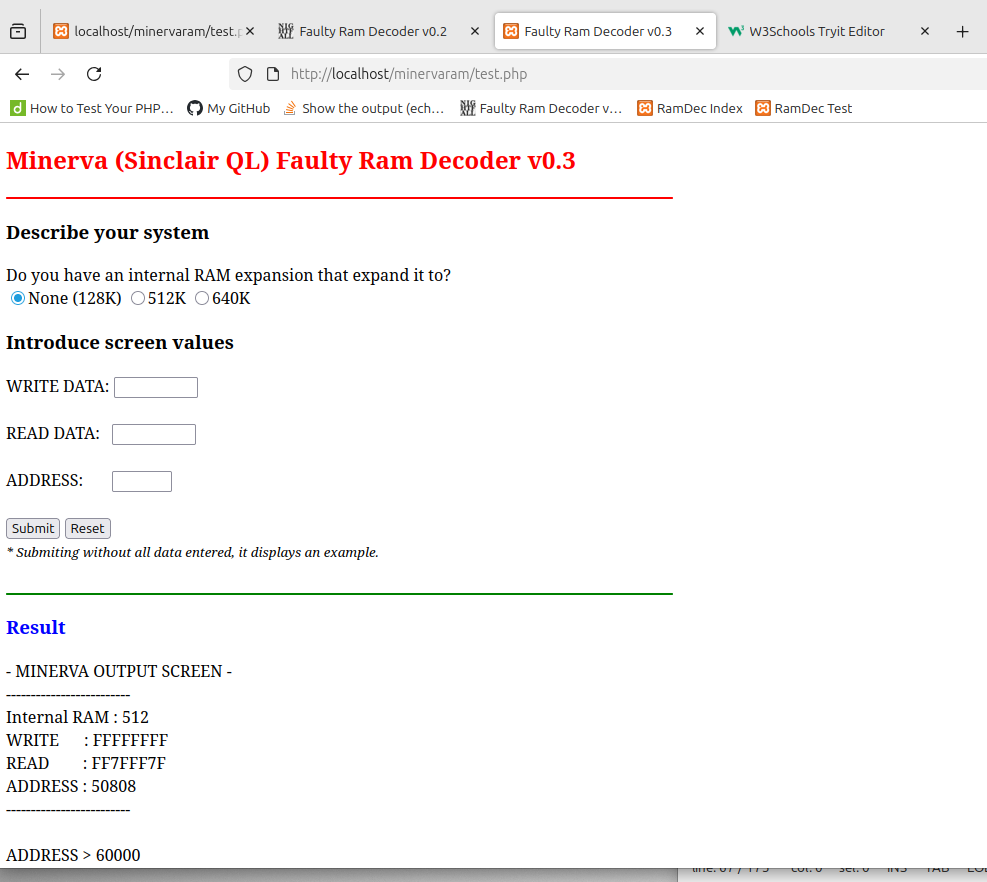
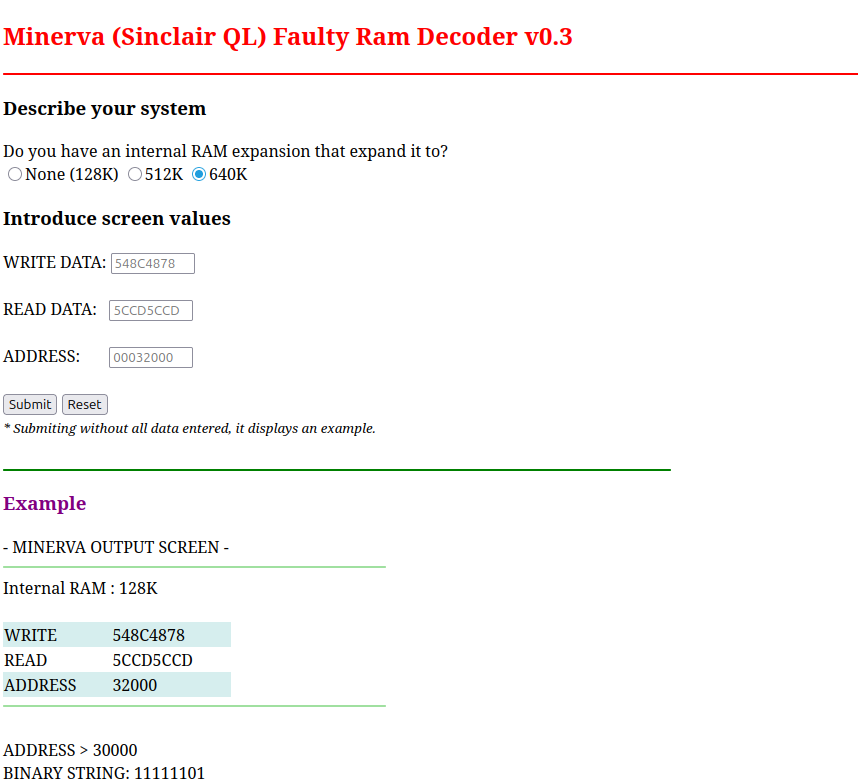
Documenting: finishing the readme and extra info

Changed region(s): [[0.0, 0.0, 1.0, 0.5839], [0.0, 0.5839, 0.3939, 0.9219], [0.0, 0.9526, 1.0, 1.0]]

diff --git a/README.md b/README.md
@@ -1,26 +1,104 @@
-# Minerva_RAM_Test
-Revision of the RAM Test Utility for QL to detect faulty RAM ICs.
+# Minerva RAM Test
+Revision of the RAM Test Utility for Sinclair QL computer to detect faulty RAM ICs. Minerva RAM test is the name for this repository, but actually it has not accurate with the original development.
 
-The HTML&PHP revision 0.2 converted by Xad/Nightfall, relies on the codes that Minerva or the basic program developed by Dominic Brown. It in a smart way check if an IC is faulty (must be a compleately faulty IC) and gives 3 codes to the user (Write, Read and the Address). 
+A better name would be RAM Fail Test, but to follow the most known name, I keep it like it is.
 
-With the 3 codes the user must introduce them into the PHP mentioned tool aviable at http://www.nightfallcrew.com/minervaram . Sadly it was only useful for a part of users that have a QL with stock RAM of 128K.
+## Introduction
 
-So due to the mentioned aboved, here is a remake of the code that allows to other users with some mods that expand the original memory placed on the ICs sockets/places till 512K (Danish mod) or 640K to get the right IC that is faulty.  
+Sinclair QL power design often drove into a common problem of get a RAM IC faulty or burned out, **Dominic Brown** wrote in 1990 a rutine in **SuperBasic** that was able to detect in a very smart way which RAM IC was compleately out. The routine <ins>gives 3 codes to detect the faulty IC</ins>. The main problem was that for running this routine <ins>you would need a working QL with Microdrive or similar working device to run it out, what was not easy at all if you only own one machine</ins>. The use of emulators was not common at that time.
+
+Thanks to the main routine that detect the faulty IC was implemented into the **Minerva ROM**, every user could get the codes and pass them to the Basic program to detect the faulty IC, yet it required another machine full working for decoding the results.
+
+In 2015, 15 years later **Xad/Nightfall** ported the code to a **PHP** file giving a great tool for the comunity. That was a very good step foward cause <ins>broke up with the neccesity of a working QL</ins>. With the Internet in every device and every home, it was not neccesary anymore to rely in a second machine or emulator to get decoded the information that report the faulty IC.
+
+The user must introduce the 3 codes them into the PHP mentioned tool at http://www.nightfallcrew.com/minervaram. Sadly it was only useful for a part of users that have a QL with stock RAM of 128K.
+
+## Later distribuitor modifications
+When Sinclair started to sell the Sinclair QL (and till the end of its production) the amount of memory was 128KiB distribuited in the main PCB placed in 16 sockets of 8 Kbits each.
+
+But some distribuitors use to make some **modification on the main board replacing the original TMS-4164 for MT-1257 of 256Kbits each increasing the total amount of RAM till 512KBytes**. That was the case of the <ins>Danish company H.Christensen&Søn as</ins>. 
+
+![Modified Sinclair QL with the label of the Danish distributor that increased the RAM amount](images/Lable_official_danish_distributor.jpeg)
+
+The modification relies in a extra glue logic added to the computer (*usually between the CPU and the ROM port*) as seen in the next picture:
+
+![Danish mod overview in the Sinclair QL main board](images/Dansk_Udgave.jpg)
+
+Another **similar modification increased the amount of RAM up to 640KBytes using NECD41256C in piggy back on the original RAM** (*not pictures available yet*)
+
+In those cases, the excellent work done by Dominc & Xad/Nightfall was useless due to **the algorithm relies on a maximun of 128KBytes over the ROM zone, it means from 20000Hex to 30000Hex** (*Bellow 20000H is reserved to the ROM memory and some I/O areas*). So the maths were outside of the ranks beliving it was in a external RAM when actually it was placed in the main PCB sockets from IC1 to IC16.
+
+## Motivation
+Due to what mentioned aboved, here is a remake of the code that allows to other users with modifications that expand the original memory placed on the ICs sockets/places till 512K (Danish mod) or 640K to get the right IC that is faulty.  
+
+As soon as the algorithm detect it is over 30000H stop with the process and doesn't give a suspected IC.
+
+>So why not to give a solution to this situation? Let's do it.<br> Would be it so difficult to adapt? Obviously not, I did it (*seems that*).
+
+## Resolution
+Thanks to the code was pretty well smart&design it was easy to adapt. The main idea is that the memory still is distribuited by the sockets in a porportional way. Thus telling to the algorithm the limits of the RAM address, setting the floor and calculating the middle point (*16 ICs distribuited by 2 rows of 8 for upper and lower zone of the whole RAM amount*) now it should determinate and indicate the right IC, keeping the compatibility with the previous version but also with those Sinclair QLs with such modifications.
+
+To make it easier now the PHP page shows new fields that allows the user to select among 3 different types of Sinclair QL amount of RAM. The default one is 128K (*the most common*).
+
+Also was interesting to add some changes on the information of the page, that could helps to the users (*moreover non technical skilled users*) to understand what is happening, where and how to introduce the codes.
+
+Dividing the page in 3 sections also gives the chance for some extra improvements.
+
+### Section 1 Inputs
+This area is dedicated to select the Sinclair QL model with the amount of RAM available on the main PCB, the three codes from the detection routine (*Write, Read and Address*) and finally to submit the datas in order to process them.
+
+Also keep the reset buttom that clean the form.
+
+[!IMPORTANT]In case of no datas introduced, when submited it shows an example of the ouput that would obtein in a real example. The send datas to the program are shown in light grey colour inside each text field.
 
 
-I has been tested with some original warning Minerva codes from 128K QLs and also with QL with Danish mod of 512K.
+### Section 2 Process
+Like now the results is headed by a label that indicate if it's an example to show how it works or a result of the real calc of the 3 valid codes. You can tell it by the proper word but also by the colour of the text.
+
+The interface shows which processed datas were introduced into a table, with coloured strips to give some extra confort to check out that codes corresponds with the expected.
+
+It is interesting when you want to check out that you introduced the codes without mistakes for checking purpose, saving time to introduce them twice, three times... just in case.
+
+### Section 3 Output
+The format of the ouput remain the same than the previous version. If it is simple and works, don't touch it. 
+
+
+> [!CAUTION] The result may not correspond with a real faulty IC, it helps but it is not determinated since in the real hardware also are implied more ICs like the multiplexers, or pasive components. So it gives a starting point that in 90% of cases is the guilty component.
+
+## Results
+**In few words Full Success.**
+
+I has been tested with some original warning Minerva codes taken from faulties 128K QLs and also with a faulty QL with Danish mod of 512K.
 
 Not tested yet with mods of 640K (usually this mod has an extra IC in piggybag over original RAM ICs), but should work the same
 
-Next part of the work will face the basic program in order to give to it more functionalities, but by now it is more than enough.
 
-This document in still under development same as the code getting more features.
+> [!CAUTION] Not fully tested yet with 640K mod, so use it under your own risk.
 
-Not full tested yet, so use it under your own risk.
 
-![My image](images/GUI_1.png) 
-![My image](images/GUI_2.png) 
+![Upper part of the GUI with the 2 first section](images/GUI_1.png) 
+![Bottom part of the GUI with the example and credits](images/GUI_2.png) 
 
-Credits:
+## What's next?
+Here are some ideas that maybe I would attend.
+
+- [x] Adapt the code for modified Sinclair QLs with 512KB RAM
+- [X] Adapt the code for modified Sinclair QLs with 640KB RAM
+- [X] Improve the user interface for better understanding
+- [X] Add to the uer interface the controls to select the right QL
+- [ ] Create a Java APP to run to decode the codes without Internet
+- [ ] Create a C program for Sinclair QL instead a Basic one
+- [ ] Create an external ROM with the C code to test a QL without opening it.
+- [ ] Add contextual help to the PHP code (without JavaScript) to helps to the user to determinate (*when required*) the kind of RAM it has.
+- [ ] Modify the SBASIC program to add new features that would result in a deep scan of the memory, not only to detect a faulty burned IC.
+
+By now it is more than enough.
+
+## The code
+You can find the code in the proper folder RAM_Test with the name of ram_fail_test.php along as other files.
+
+## Credits
 The Original Program (ram3_ramfail.bas) was written for the SINCLAIR QL in SUPER BASIC language by Dominic Brown (1990).
 Converted in PHP language by Xad/Nightfall (8/5/2015).
+
+*Special thanks to: Johan Engdhal for giving me the PHP functional and updated original code. And Thomas Kolbeck for grating me pictures and extra information about the Danish company.*
